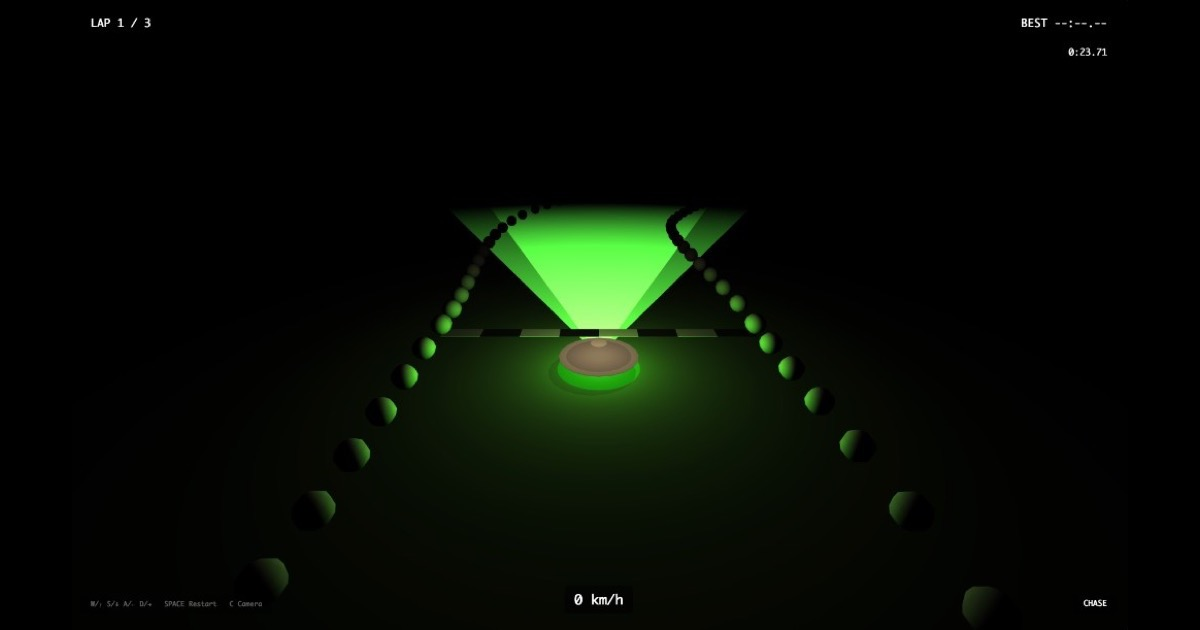
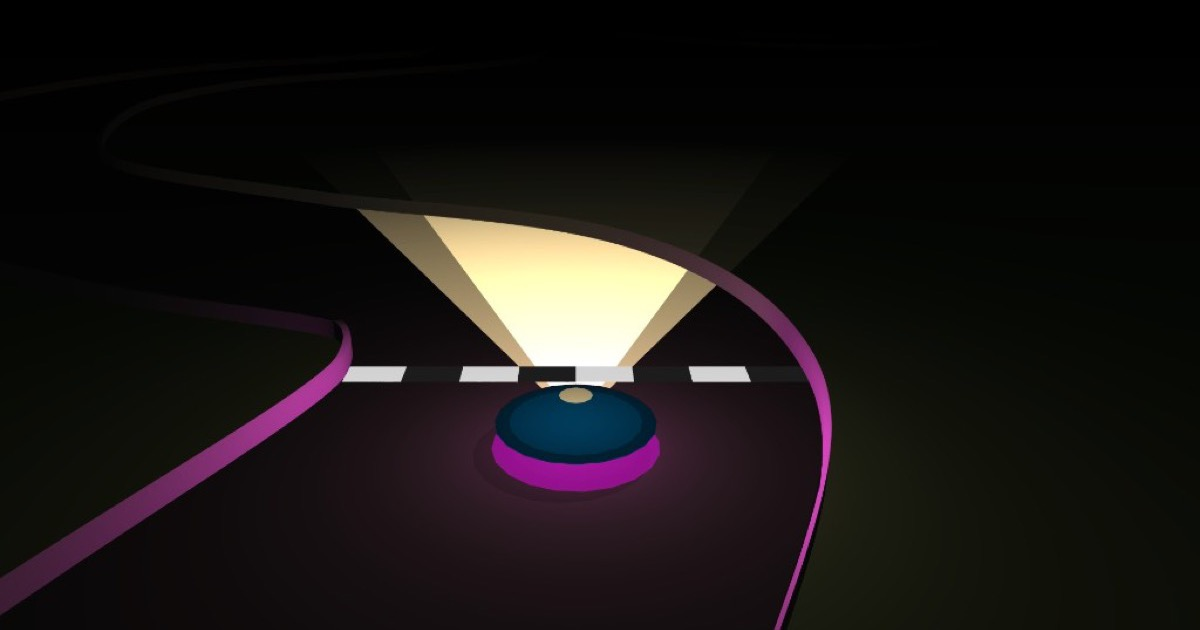
chore: refresh OG image and meta descriptions
- Replace og-image.png with updated game screenshot (1200×630)
- Improve SEO/social description copy in index.html

diff --git a/index.html b/index.html
@@ -4,15 +4,15 @@
   <meta charset="UTF-8">
   <meta name="viewport" content="width=device-width, initial-scale=1.0, viewport-fit=cover">
   <title>Carreritas</title>
-  <meta name="description" content="A top-down racing game — generate tracks from any text, race your ghost, and challenge friends.">
+  <meta name="description" content="Top-down racing in your browser. Turn any text into a winding track, chase your ghost, and climb daily and weekly leaderboards—day or night.">
   <meta property="og:type" content="website">
   <meta property="og:url" content="https://carreritas.vercel.app">
   <meta property="og:title" content="Carreritas">
-  <meta property="og:description" content="A top-down racing game — generate tracks from any text, race your ghost, and challenge friends.">
+  <meta property="og:description" content="Top-down racing in your browser. Turn any text into a winding track, chase your ghost, and climb daily and weekly leaderboards—day or night.">
   <meta property="og:image" content="https://carreritas.vercel.app/og-image.png">
   <meta name="twitter:card" content="summary_large_image">
   <meta name="twitter:title" content="Carreritas">
-  <meta name="twitter:description" content="A top-down racing game — generate tracks from any text, race your ghost, and challenge friends.">
+  <meta name="twitter:description" content="Top-down racing in your browser. Turn any text into a winding track, chase your ghost, and climb daily and weekly leaderboards—day or night.">
   <meta name="twitter:image" content="https://carreritas.vercel.app/og-image.png">
   <link rel="stylesheet" href="/src/styles.css">
 </head>
